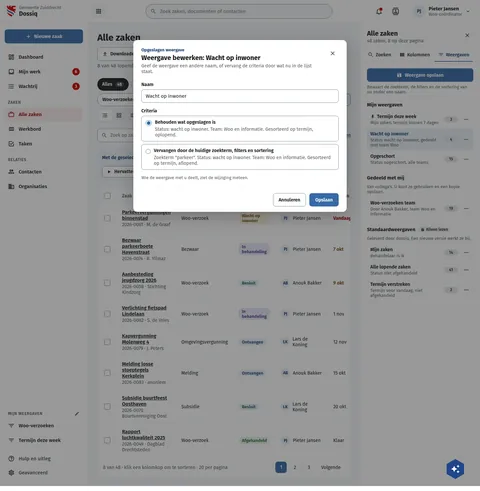
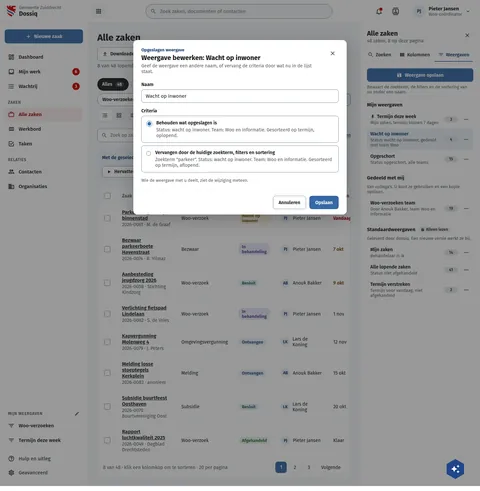
fix(screens): DqFilterBewerken's criteria rows padded like every choice row
The edit dialog drew its two criteria rows at 10px 12px with a 10px gap;
the choice rows on DqBesluit, DqDocumentGenereren, DqZaakSamenwerken and
the live CnChoiceCards are 12px 14px with 12px. The board follows the
majority (compdiff insetTop 11 vs 15).

Assisted-by: ClaudeCode:claude-opus-5-5

Changed region(s): [[0.2812, 0.2444, 0.7188, 0.4582]]

diff --git a/preview/screens/boards/DqFilterBewerken.html b/preview/screens/boards/DqFilterBewerken.html
@@ -454,8 +454,8 @@ a{color:var(--sc-primary, #3669a5)}a:hover{color:var(--sc-primary-deep, #234a78)
       </div>
       <fieldset style="margin: 0; padding: 0; border: 0; display: flex; flex-direction: column; gap: 8px">
         <legend style="padding: 0 0 6px; font-size: 14px; font-weight: 600">Criteria</legend>
-        <label style="display: flex; align-items: flex-start; gap: 10px; padding: 10px 12px; border: 1px solid var(--sc-work-field, #828a95); border-radius: 8px; font-size: 14px"><input type="radio" name="fd-criteria" checked style="width: 18px; height: 18px; margin: 2px 0 0; accent-color: var(--sc-primary, #3669a5)"><span style="display: flex; flex-direction: column; gap: 4px"><span style="font-weight: 600">Behouden wat opgeslagen is</span><span style="color: var(--sc-work-muted, #5e6168)">Status: wacht op inwoner. Team: Woo en informatie. Gesorteerd op termijn, oplopend.</span></span></label>
-        <label style="display: flex; align-items: flex-start; gap: 10px; padding: 10px 12px; border: 1px solid var(--sc-work-field, #828a95); border-radius: 8px; font-size: 14px"><input type="radio" name="fd-criteria" style="width: 18px; height: 18px; margin: 2px 0 0; accent-color: var(--sc-primary, #3669a5)"><span style="display: flex; flex-direction: column; gap: 4px"><span style="font-weight: 600">Vervangen door de huidige zoekterm, filters en sortering</span><span style="color: var(--sc-work-muted, #5e6168)">Zoekterm "parkeer". Status: wacht op inwoner. Team: Woo en informatie. Gesorteerd op termijn, aflopend.</span></span></label>
+        <label style="display: flex; align-items: flex-start; gap: 12px; padding: 12px 14px; border: 1px solid var(--sc-work-field, #828a95); border-radius: 8px; font-size: 14px"><input type="radio" name="fd-criteria" checked style="width: 18px; height: 18px; margin: 2px 0 0; accent-color: var(--sc-primary, #3669a5)"><span style="display: flex; flex-direction: column; gap: 4px"><span style="font-weight: 600">Behouden wat opgeslagen is</span><span style="color: var(--sc-work-muted, #5e6168)">Status: wacht op inwoner. Team: Woo en informatie. Gesorteerd op termijn, oplopend.</span></span></label>
+        <label style="display: flex; align-items: flex-start; gap: 12px; padding: 12px 14px; border: 1px solid var(--sc-work-field, #828a95); border-radius: 8px; font-size: 14px"><input type="radio" name="fd-criteria" style="width: 18px; height: 18px; margin: 2px 0 0; accent-color: var(--sc-primary, #3669a5)"><span style="display: flex; flex-direction: column; gap: 4px"><span style="font-weight: 600">Vervangen door de huidige zoekterm, filters en sortering</span><span style="color: var(--sc-work-muted, #5e6168)">Zoekterm "parkeer". Status: wacht op inwoner. Team: Woo en informatie. Gesorteerd op termijn, aflopend.</span></span></label>
       </fieldset>
       <span style="font-size: 13px; color: var(--sc-work-muted, #5e6168)">Wie de weergave met u deelt, ziet de wijziging meteen.</span>
     </form>

diff --git a/screens-src/zuiddrecht/FilterDialoog.dc.html b/screens-src/zuiddrecht/FilterDialoog.dc.html
@@ -66,8 +66,8 @@ a{color:#3669a5}a:hover{color:#234a78}
       </div>
       <fieldset style="margin: 0; padding: 0; border: 0; display: flex; flex-direction: column; gap: 8px">
         <legend style="padding: 0 0 6px; font-size: 14px; font-weight: 600">Criteria</legend>
-        <label style="display: flex; align-items: flex-start; gap: 10px; padding: 10px 12px; border: 1px solid #828a95; border-radius: 8px; font-size: 14px"><input type="radio" name="fd-criteria" checked style="width: 18px; height: 18px; margin: 2px 0 0; accent-color: #3669a5"><span style="display: flex; flex-direction: column; gap: 4px"><span style="font-weight: 600">Behouden wat opgeslagen is</span><span style="color: #5e6168">{{ savedCriteria }}</span></span></label>
-        <label style="display: flex; align-items: flex-start; gap: 10px; padding: 10px 12px; border: 1px solid #828a95; border-radius: 8px; font-size: 14px"><input type="radio" name="fd-criteria" style="width: 18px; height: 18px; margin: 2px 0 0; accent-color: #3669a5"><span style="display: flex; flex-direction: column; gap: 4px"><span style="font-weight: 600">Vervangen door de huidige zoekterm, filters en sortering</span><span style="color: #5e6168">{{ currentCriteria }}</span></span></label>
+        <label style="display: flex; align-items: flex-start; gap: 12px; padding: 12px 14px; border: 1px solid #828a95; border-radius: 8px; font-size: 14px"><input type="radio" name="fd-criteria" checked style="width: 18px; height: 18px; margin: 2px 0 0; accent-color: #3669a5"><span style="display: flex; flex-direction: column; gap: 4px"><span style="font-weight: 600">Behouden wat opgeslagen is</span><span style="color: #5e6168">{{ savedCriteria }}</span></span></label>
+        <label style="display: flex; align-items: flex-start; gap: 12px; padding: 12px 14px; border: 1px solid #828a95; border-radius: 8px; font-size: 14px"><input type="radio" name="fd-criteria" style="width: 18px; height: 18px; margin: 2px 0 0; accent-color: #3669a5"><span style="display: flex; flex-direction: column; gap: 4px"><span style="font-weight: 600">Vervangen door de huidige zoekterm, filters en sortering</span><span style="color: #5e6168">{{ currentCriteria }}</span></span></label>
       </fieldset>
       <span style="font-size: 13px; color: #5e6168">Wie de weergave met u deelt, ziet de wijziging meteen.</span>
     </form>
